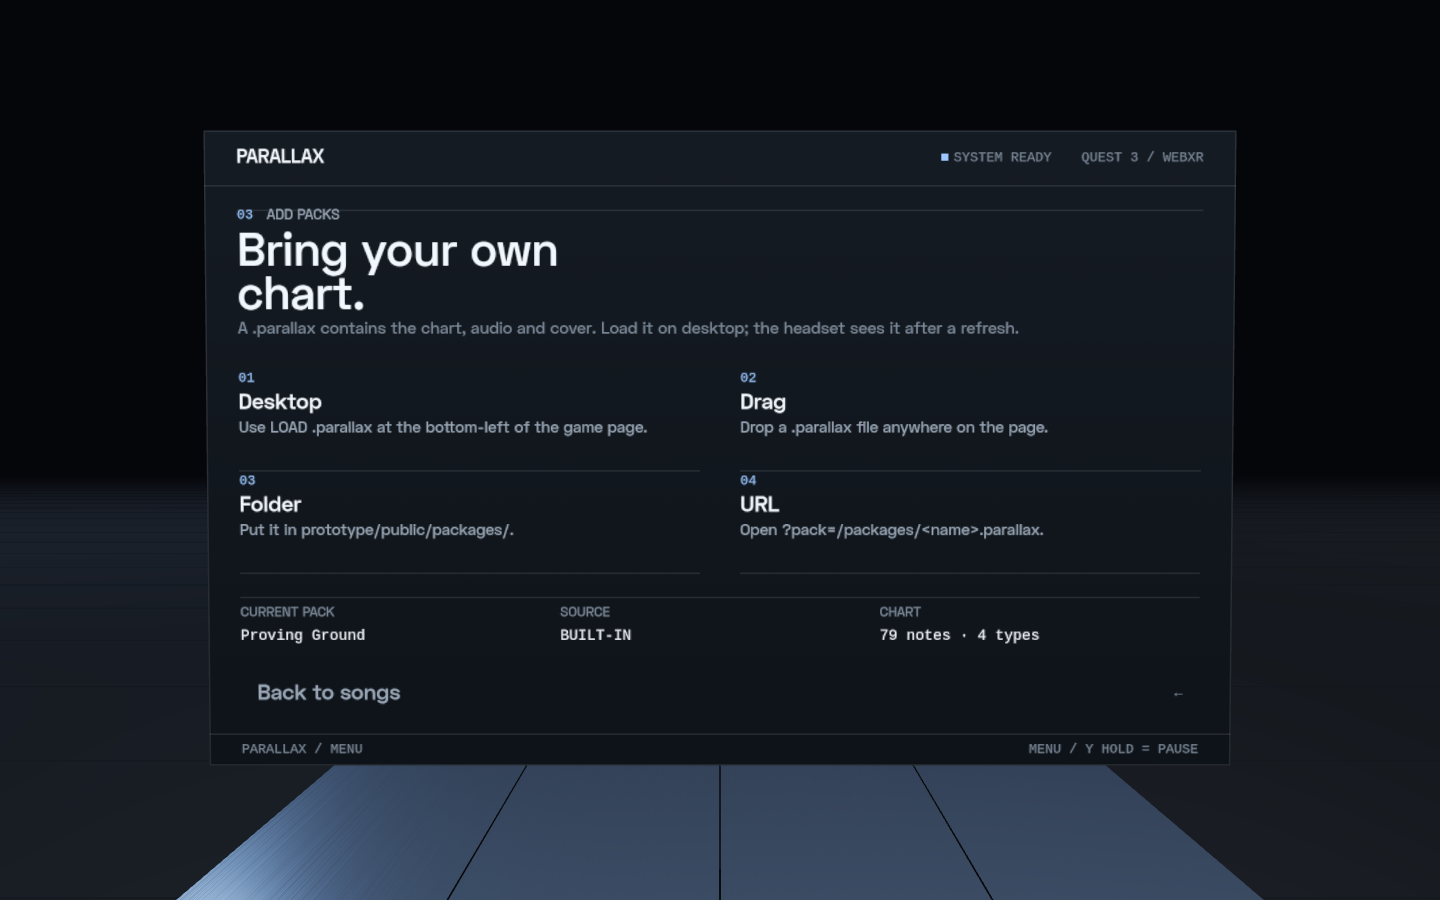
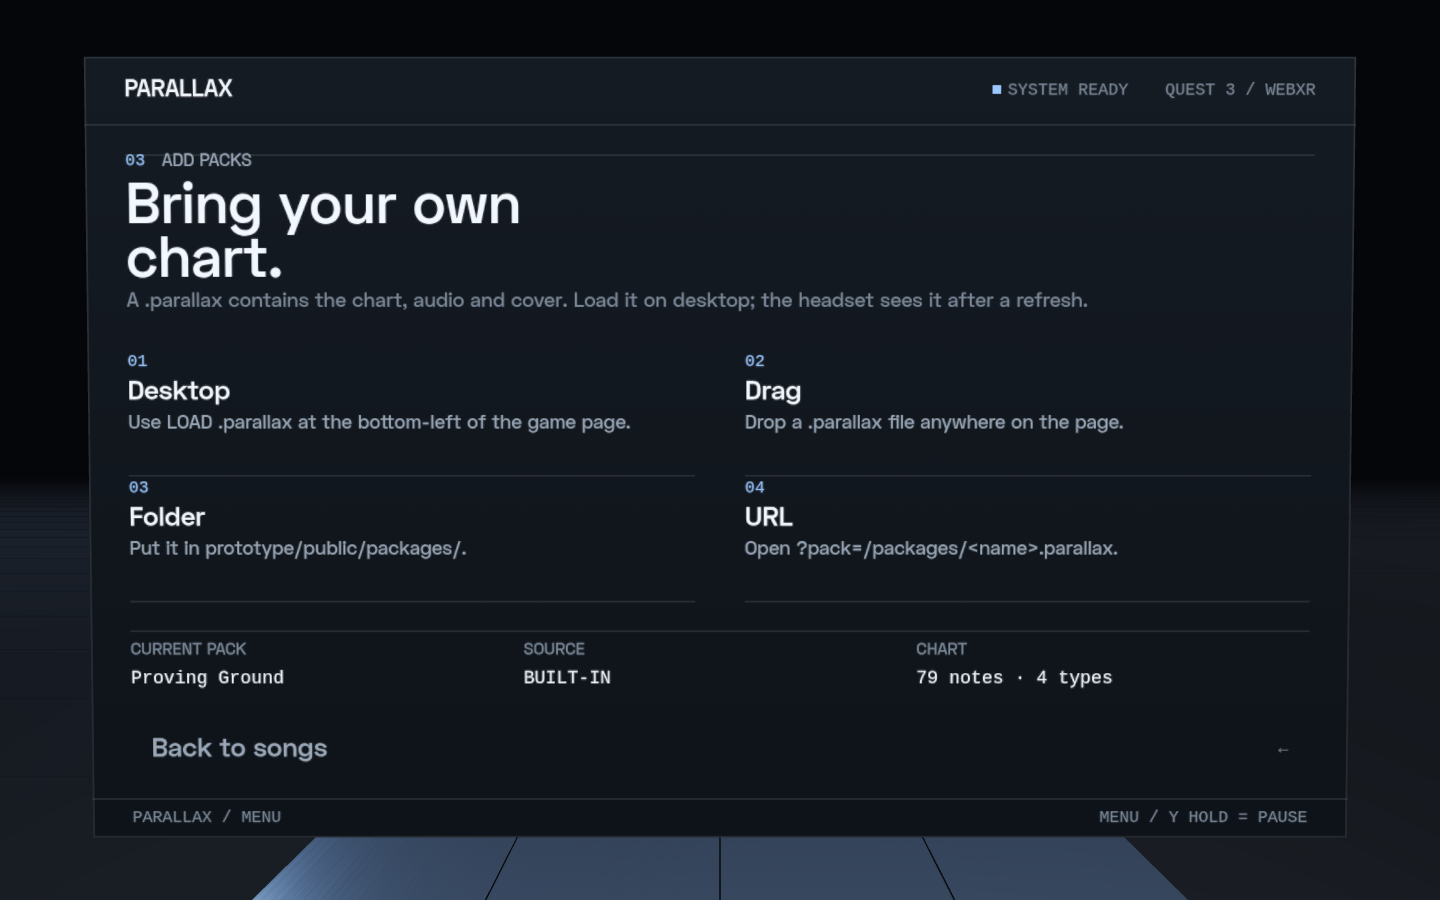
tune(vr): move panel farther and enlarge

diff --git a/prototype/src/ui/gameUi.ts b/prototype/src/ui/gameUi.ts
@@ -96,6 +96,11 @@ export interface GameUi {
 const W = 760;
 const H = 470;
 const M = 24;
+
+/** 面板的世界尺寸与位置：远一点、物理尺寸大一点，但保持接近原来的视野占比。 */
+const PANEL_WIDTH = 1.4;
+const PANEL_DISTANCE = 0.56;
+const PANEL_Y = 1.39;
 const HEADER_H = 40;
 const FOOTER_H = 24;
 const BODY_TOP = 58;
@@ -216,6 +221,13 @@ function vrule(ctx: CanvasRenderingContext2D, x: number, y: number, h: number, c
 
 function clamp(value: number, min: number, max: number): number {
   return Math.min(max, Math.max(min, value));
+}
+
+function numericParam(query: URLSearchParams | null, key: string, fallback: number): number {
+  const raw = query?.get(key);
+  if (raw === null || raw === undefined) return fallback;
+  const value = Number(raw);
+  return Number.isFinite(value) && value > 0 ? value : fallback;
 }
 
 function titleCase(value: string): string {
@@ -548,14 +560,21 @@ export function createGameUi(settings: GameUiSettings, audio: AudioSettings, sta
   const group = new THREE.Group();
   group.name = 'game-ui';
 
+  const tuning = import.meta.env.DEV ? new URLSearchParams(window.location.search) : null;
+  const panelScale = clamp(numericParam(tuning, 'panelScale', 1), 0.6, 1.6);
+  const panelDistance = clamp(numericParam(tuning, 'panelDistance', PANEL_DISTANCE), 0.3, 1.2);
+  const panelY = clamp(numericParam(tuning, 'panelY', PANEL_Y), 1.0, 1.9);
+  const panelWidth = PANEL_WIDTH * panelScale;
+  const panelHeight = (panelWidth * H) / W;
+
   const panel = createVrPanel({
-    width: 0.86,
-    height: 0.532,
+    width: panelWidth,
+    height: panelHeight,
     canvasWidth: W,
     canvasHeight: H,
     onTop: true,
   });
-  panel.group.position.set(0, 1.33, -0.34);
+  panel.group.position.set(0, panelY, -panelDistance);
   group.add(panel.group);
 
   // —— 激光笔 ——

diff --git a/prototype/STATUS.md b/prototype/STATUS.md
@@ -32,6 +32,7 @@
 - **P2 布局重做（2026-10-20）**：去圆角；主页双栏、Songs 可选列表 + 详情、Pause / Settings / Result 双栏；可切换内置谱并重建播放器 / 音频 / 浮空显示；Add packs 二级页。待头显验收。
 - **2D UI Study（2026-10-20）**：[`design/ui-2d/`](../design/ui-2d/) 先用网页试 A + C 的排版 / 浅蓝 / lime / 密度；六个界面可切换，截图在 `docs/ui-2d/`。
 - **VR 复刻 2D Study（2026-10-20）**：760×470 六屏按二维稿重排；标签 10–11px / 正文 12–13px / 按钮 16px，2× 纹理；chart map / density 来自真实谱面。截图在 `docs/ui-vr2/`。待 Quest 3 验收。
+- **面板距离 / 尺寸（2026-10-20）**：1.40m 宽 × 0.866m 高，距离 0.56m、中心高 1.39m；物理尺寸和距离同比放大，视野占比基本不变。可用 `?panelScale` / `?panelDistance` / `?panelY` 在头显里继续调。
 
 ---
 

diff --git a/CHANGELOG.md b/CHANGELOG.md
@@ -15,6 +15,7 @@
 - P2 布局重做：全部去圆角；主页双栏、Songs 可选列表 + 详情、Pause / Settings / Result 双栏；支持切换内置谱并重建播放器 / 音频 / 浮空显示；Add packs 二级页；新增 `?panel=packs`。
 - 2D UI study（`design/ui-2d/`）：六屏可切换，A + C 的排版 / 浅蓝 + 稀有 lime；用于 VR 移植前的视觉与密度试验。
 - VR 复刻 2D study：760×470 六屏重排，标签 / 按钮按 VR 可读性重新定字阶，2× 面板纹理；chart map / density 接真实谱面；Settings 增加 Metronome / Groove / Lead-in；新增 `?chrome=0` 干净截图开关。
+- VR 面板从 0.86m / 0.34m 调到 1.40m / 0.56m，中心抬高到 1.39m；尺寸和距离同比放大，保持视野占比；新增 `?panelScale` / `?panelDistance` / `?panelY` 头显调参。
 
 ## 0.3.11 — 2026-10-18
 

diff --git a/README.md b/README.md
@@ -252,6 +252,7 @@ cd prototype && npm run dev
 | `?range=6` | 视距（米，从判定带算） |
 | `?panel=home\|songs\|packs\|paused\|settings\|result` | 直接摊开指定面板 |
 | `?chrome=0` | 隐藏诊断 / lil-gui / Stats / 包加载器，给面板截图留干净背景 |
+| `?panelScale=1.05` `?panelDistance=0.65` `?panelY=1.45` | 调 VR 面板尺寸 / 距离 / 高度（dev） |
 | `?vr=1` | 假装在 VR 里（检查 `EXIT VR` 等只在头显出现的元素） |
 | `?menuButton=6` | 改 menu 键的 gamepad 索引（默认 6；读不到时用左手 Y 长按） |
 | `?clock=0` | 关掉音频时钟（无头截图用） |

diff --git a/docs/ui-vr2/README.md b/docs/ui-vr2/README.md
@@ -2,6 +2,8 @@
 
 2026-10-20。把 [`design/ui-2d`](../../design/ui-2d/) 的六屏版式搬进 760×470 的 VR 面板后截的图。
 
+面板为 **1.40m 宽 × 0.866m 高，放在眼前 0.56m、中心高度 1.39m**；截图相机在 `z=0.34`，所以画面里看起来比实际佩戴时略小。
+
 | 文件 | 状态 |
 | --- | --- |
 | `home.png` | 主页，Proving Ground |
@@ -18,7 +20,7 @@
 ```text
 ?panel=home|songs|packs|paused|settings|result
 &vr=1&clock=0&chrome=0
-&cam=0,1.33,0.34&look=0,1.33,-0.34
+&cam=0,1.39,0.34&look=0,1.39,-0.56
 ```
 
 暂停 / 结算要带分数时，让自动演示先跑 30 秒：
